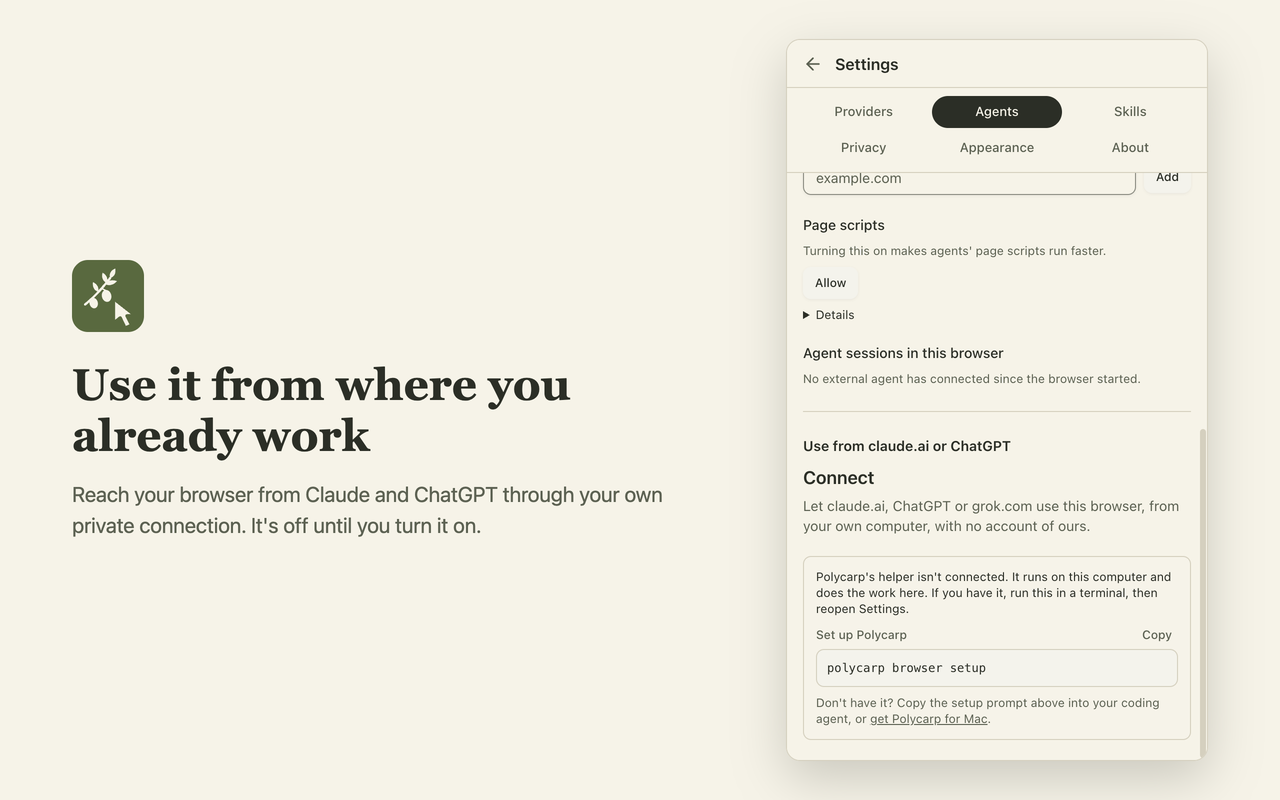
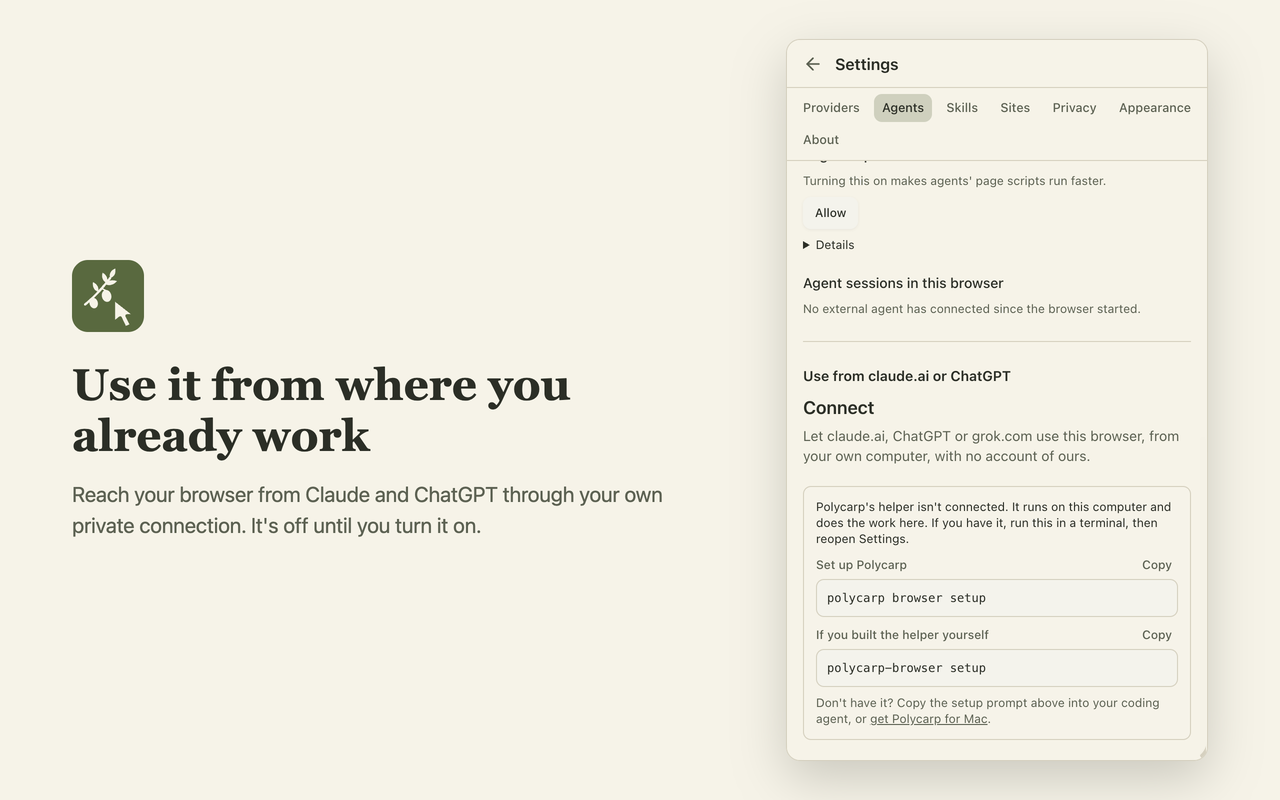
Helper: source installs are polycarp-browser; store shots redrawn (tychicus#87)
* Helper: source installs are polycarp-browser, and the panel never shows the old name

* wait no longer starves background tabs of rendering; let go of a crashed page's debugger session

* wait backs off so background tabs on Linux run IntersectionObserver; exports use the Polycarp name

infinite-scroll gates CI again.

* Bench: state what was measured about infinite-scroll on Linux

* Store: redraw the Connect, Privacy and Agents shots from the current panel

* Helper: report the name it is linked under; prompts handle older tags and helpers

* Test: isolate PATH in the linked-name check

---------

Changed region(s): [[0.625, 0.4375, 0.9688, 0.9375], [0.625, 0.0938, 0.9375, 0.4062], [0.875, 0.1875, 0.9062, 0.2188]]

diff --git a/browser/src/agent-setup-prompt.ts b/browser/src/agent-setup-prompt.ts
@@ -1,12 +1,12 @@
-/** The two names a person types for this program: the one the app's helper answers to, and the one an npm link or checkout has. */
-const COMMANDS = ["polycarp browser", "tabkyra"];
+/** The names a person types for this program: the one the app's helper answers to, the one an npm link or checkout has, and the older one a helper installed earlier may still answer to. */
+const COMMANDS = ["polycarp browser", "polycarp-browser", "tabkyra"];
 
 /**
  * A prompt the user pastes into their own agent (Claude Code, Codex, pi, OMP, OpenCode,
  * Cursor, ...). The agent installs the CLI, connects the MCP server and installs the skills.
  * Plain steps only: no piped installers, and nothing that asks for a key or password.
  */
-export function agentSetupPrompt(version: string, command = "tabkyra"): string {
+export function agentSetupPrompt(version: string, command = "polycarp-browser"): string {
 	if (!COMMANDS.includes(command)) throw new Error(`Unknown command name "${command}".`);
 	// Without the version the clone can't be pinned, so refuse rather than copy a broken prompt.
 	if (!/^\d+\.\d+\.\d+/.test(version)) throw new Error(`No extension version to pin the CLI to (got "${version}").`);
@@ -20,16 +20,16 @@ export function agentSetupPrompt(version: string, command = "tabkyra"): string {
    - If it doesn't exist: mkdir -p ~/polycarp-src && cd ~/polycarp-src && git clone --depth 1 --branch browser-v${version} https://github.com/baney75/polycarp && cd polycarp
      If that tag doesn't exist, run the same clone without --branch browser-v${version} and tell me you used the newest code.
    - Then: (cd browser/cli && npm ci && npm run build && npm link)
-   The npm link gives the command the name tabkyra.${command === "tabkyra" ? "" : ` Once it succeeds, run "tabkyra" in place of "${command}" in every command below, whichever name this prompt started with.`} If npm link fails with a permissions error, run "node ~/polycarp-src/polycarp/browser/cli/dist/index.js" in place of "${command}" in every command below.
+   The npm link gives the command the name polycarp-browser, or tabkyra if the tag above is an older one: run command -v polycarp-browser, and use tabkyra if only that exists. Use the name that exists in place of "${command}" in every command below, whichever name this prompt started with. If npm link fails with a permissions error, run "node ~/polycarp-src/polycarp/browser/cli/dist/index.js" in place of "${command}" in every command below.
 3. Run: ${command} setup --yes
    It registers the browser connection and adds the MCP server to Claude Code and Codex.
 4. Connect this harness, even if Polycarp already works in another one:
-   - Any MCP client: a stdio server named "polycarp" that runs ~/.config/tabkyra/tabkyra with the argument "mcp". JSON configs need the full path, not ~.
+   - Any MCP client: a stdio server named "polycarp" that runs ~/.config/polycarp/browser/polycarp with the argument "mcp". JSON configs need the full path, not ~.
    - pi has no MCP client: run ${command} pi-extension instead.
 5. Install the skills: ${command} skill install
    If this harness reads AGENTS.md instead of skill folders: cd back to the directory step 1 printed (my project, not the Polycarp clone); if you aren't sure it's my project's root, ask me. If its AGENTS.md already has a "## Browser: Polycarp" or "## Browser: Tabkyra" section (the same section under its earlier name), leave it as it is. Otherwise run ${command} skill print >> AGENTS.md
 6. Run ${command} doctor and fix anything it reports with the command it prints.
-7. Restart or reload MCP servers if this harness needs it, then call the status tool of the MCP server named tabkyra. Tell me whether it says connected.
+7. Restart or reload MCP servers if this harness needs it, then call the status tool of the MCP server named polycarp. Tell me whether it says connected.
 
 Don't ask me for API keys or passwords. Polycarp doesn't need them for this.`;
 }
@@ -42,7 +42,7 @@ const CLOSING = "Don't ask me for API keys or passwords. Polycarp doesn't need t
  * --no-passcode, so no long-lived passcode is made or printed into the agent's output, and the
  * prompt pipes nothing into a shell.
  */
-export function remoteSetupPrompt(version: string, command = "tabkyra"): string {
+export function remoteSetupPrompt(version: string, command = "polycarp-browser"): string {
 	if (!COMMANDS.includes(command)) throw new Error(`Unknown command name "${command}".`);
 	if (!/^\d+\.\d+\.\d+/.test(version)) throw new Error(`No extension version to pin the CLI to (got "${version}").`);
 	return `Set up Polycarp (https://github.com/baney75/polycarp) so claude.ai, ChatGPT or grok.com can use my browser through my own computer. The Polycarp extension ${version} is already loaded in my browser. Run each step yourself and show me any output you can't fix. Nothing here costs money or goes through anyone else's server.
@@ -68,7 +68,7 @@ export const CONNECT_CODE = /^TK-[0-9A-HJKMNP-TV-Z]{4}-[0-9A-HJKMNP-TV-Z]{4}$/;
 
 /**
  * A prompt for an agent on another device: link it to this hub with a one-time connect code. That device may have
- * `polycarp browser` (the app) or only `tabkyra` (an npm link or checkout), so the prompt does not carry this
+ * `polycarp browser` (the app) or only `polycarp-browser` (an npm link or checkout), so the prompt does not carry this
  * helper's name: the agent finds out which one runs there and uses it for every later step.
  */
 export function deviceSetupPrompt(version: string, hubUrl: string, code: string): string {
@@ -78,8 +78,9 @@ export function deviceSetupPrompt(version: string, hubUrl: string, code: string)
 	return `Connect this computer's browser to my Polycarp hub at ${hubUrl}, so claude.ai, ChatGPT or grok.com can use it through my one connector. The Polycarp extension ${version} should already be loaded in my browser on this computer. Run each step yourself and show me any output you can't fix.
 
 1. Find the command that runs Polycarp's helper on this computer. Run: polycarp browser doctor
-   If that says the command isn't found, run: tabkyra doctor
-   Use whichever of the two runs, and write it as HELPER in every step below: HELPER is "polycarp browser" or "tabkyra", never both. If neither runs, stop and tell me to copy the setup prompt from Polycarp's Settings > Agents tab and run that first.
+   If that says the command isn't found, run: polycarp-browser doctor
+   If that isn't found either, an older install may answer to: tabkyra doctor
+   Use the first one that runs, and write it as HELPER in every step below: HELPER is exactly one of "polycarp browser", "polycarp-browser" or "tabkyra". If neither runs, stop and tell me to copy the setup prompt from Polycarp's Settings > Agents tab and run that first.
 2. Run: HELPER link ${hubUrl} --code ${code}
    The code works once and expires 10 minutes after I copied this prompt. If the hub refuses it, tell me to get a new one in Settings > Connect > Add a device.
 3. Run: HELPER link status

diff --git a/browser/cli/src/commands.ts b/browser/cli/src/commands.ts
@@ -285,7 +285,7 @@ export const COMMANDS: CommandSpec[] = [
 	{ name: "install", what: "Re-register the native host with every browser, or with --browser <name> only that one", group: "Troubleshoot", flags: ["--force", "--browser"] },
 	{ name: "reload", what: "Reload the extension after rebuilding dist-chrome", group: "Troubleshoot" },
 	{ name: "debug", what: "Bridge state, request timings and a benchmark (JSON)", group: "Troubleshoot" },
-	{ name: "completion", positional: 1, args: "zsh|bash|fish", what: 'Completions for the tabkyra command name: eval "$(tabkyra completion zsh)"', group: "Troubleshoot", values: ["zsh", "bash", "fish"] }, // product-name allowlist: completions are for the tabkyra command name
+	{ name: "completion", positional: 1, args: "zsh|bash|fish", what: `Completions for ${COMMAND_NAME}: eval "$(${COMMAND_NAME} completion zsh)"`, group: "Troubleshoot", values: ["zsh", "bash", "fish"] }, // product-name allowlist: the alias is still completed
 	{ name: "version", what: "This CLI's version (also --version)", group: "Troubleshoot", flags: ["--json"] },
 	{ name: "help", selfParsed: true, what: "This help (also --help)", group: "Troubleshoot", hidden: true },
 	{ name: "host", selfParsed: true, what: "The native host the browser starts", group: "Troubleshoot", hidden: true },
@@ -371,8 +371,8 @@ export function completionScript(shell: string): string | undefined {
 	const pathFlags = [...PATH_VALUES].map(sh).join(" ");
 	if (shell === "zsh") {
 		const lines = [
-			"#compdef tabkyra",
-			'# completion for the tabkyra command name (zsh). Load it with: eval "$(tabkyra completion zsh)"', // product-name allowlist: completions are for the tabkyra command name
+			"#compdef polycarp-browser tabkyra",
+			`# completion for ${COMMAND_NAME} and the tabkyra alias (zsh). Load it with: eval "$(${COMMAND_NAME} completion zsh)"`, // product-name allowlist: the alias is still completed
 			"_tabkyra() {",
 			"  local -a commands subs flags",
 			"  local paths=0",
@@ -416,11 +416,11 @@ export function completionScript(shell: string): string | undefined {
 			"# compdef exists once compinit has run. If the zshrc runs it later (oh-my-zsh, zinit,",
 			"# prezto), register at the first prompt instead of running compinit a second time.",
 			"if (( $+functions[compdef] )); then",
-			"  compdef _tabkyra tabkyra",
+			"  compdef _tabkyra polycarp-browser tabkyra",
 			"else",
 			"  autoload -Uz add-zsh-hook",
 			"  _tabkyra_register() {",
-			"    (( $+functions[compdef] )) && compdef _tabkyra tabkyra",
+			"    (( $+functions[compdef] )) && compdef _tabkyra polycarp-browser tabkyra",
 			"    add-zsh-hook -d precmd _tabkyra_register",
 			"  }",
 			"  add-zsh-hook precmd _tabkyra_register",
@@ -438,7 +438,7 @@ export function completionScript(shell: string): string | undefined {
 				return `    ${sh(f)}) ${values ? `COMPREPLY=( $(compgen -W "${values}" -- "$cur") ); ` : ""}compopt +o default 2>/dev/null; return ;;`;
 			});
 		const lines = [
-			'# completion for the tabkyra command name (bash). Load it with: eval "$(tabkyra completion bash)"', // product-name allowlist: completions are for the tabkyra command name
+			`# completion for ${COMMAND_NAME} and the tabkyra alias (bash). Load it with: eval "$(${COMMAND_NAME} completion bash)"`, // product-name allowlist: the alias is still completed
 			"_tabkyra() {",
 			'  local cur="${COMP_WORDS[COMP_CWORD]}" prev="${COMP_WORDS[COMP_CWORD-1]}" paths=0',
 			"  COMPREPLY=()",
@@ -478,13 +478,13 @@ export function completionScript(shell: string): string | undefined {
 			"  # File names only where the command takes a path (compopt needs bash 4; older bash keeps them).",
 			'  [ "$paths" = 1 ] || compopt +o default 2>/dev/null',
 			"}",
-			"complete -o bashdefault -o default -F _tabkyra tabkyra",
+			"complete -o bashdefault -o default -F _tabkyra polycarp-browser tabkyra",
 			"",
 		);
 		return lines.join("\n");
 	}
 	if (shell === "fish") {
-		const lines = ["# completion for the tabkyra command name (fish). Load it with: tabkyra completion fish | source"]; // product-name allowlist: completions are for the tabkyra command name
+		const lines = [`# completion for ${COMMAND_NAME} and the tabkyra alias (fish). Load it with: ${COMMAND_NAME} completion fish | source`]; // product-name allowlist: the alias is still completed
 		for (const c of cmds) lines.push(`complete -c tabkyra -n __fish_use_subcommand -f -a ${sh(c.name)} -d '${desc(c.summary ?? c.what)}'`);
 		for (const c of cmds) {
 			const subs = c.subcommands ?? [];
@@ -504,6 +504,8 @@ export function completionScript(shell: string): string | undefined {
 			for (const f of c.flags ?? [])
 				lines.push(`complete -c tabkyra -n '__fish_seen_subcommand_from ${sh(c.name)}' -l ${sh(f.replace(/^--/, ""))}${VALUE_FLAGS.has(f) ? " -r" : ""}`);
 		}
+		// The same rules for the name a person types now; the alias above stays completed.
+		lines.push(...lines.slice(1).map((l) => l.replace("complete -c tabkyra ", "complete -c polycarp-browser ")));
 		lines.push("");
 		return lines.join("\n");
 	}

diff --git a/browser/src/bridge/host-command.ts b/browser/src/bridge/host-command.ts
@@ -1,8 +1,8 @@
 import { UPDATE_STATUS_KEY } from "./protocol.js";
 
 /**
- * What a person types to run the helper: "polycarp browser" when the helper is the one inside the Polycarp app, "tabkyra" for an
- * npm link or a checkout. The helper says which in its update status; until it has, the product's own name. Someone who just
+ * What a person types to run the helper: "polycarp browser" when the helper is the one inside the Polycarp app, "polycarp-browser" for
+ * an npm link or a checkout (an older helper reports "tabkyra", and that is shown as it reports it). The helper says which in its update status; until it has, the product's own name. Someone who just
  * installed from the store has neither, so the screens that show this also say how to get the helper.
  */
 let command = "polycarp browser";
@@ -10,7 +10,7 @@ let known = false;
 
 function take(status: unknown): void {
 	const named = (status as { command?: unknown } | undefined)?.command;
-	if (named === "polycarp browser" || named === "tabkyra") {
+	if (named === "polycarp browser" || named === "polycarp-browser" || named === "tabkyra") {
 		command = named;
 		known = true;
 	}
@@ -29,9 +29,9 @@ export function hostCommand(): string {
 	return command;
 }
 
-/** A helper built from the setup prompt answers to `tabkyra`, and one that hasn't reported yet could be either. */
+/** A helper built from the setup prompt answers to `polycarp-browser`, and one that hasn't reported yet could be either. */
 export function builtHelperCommand(subcommand: string): string | undefined {
-	return known ? undefined : `tabkyra ${subcommand}`;
+	return known ? undefined : `polycarp-browser ${subcommand}`;
 }
 
 /** The command for a sentence: the one name once the helper has said which, and both until then. */

diff --git a/browser/cli/src/self.ts b/browser/cli/src/self.ts
@@ -1,3 +1,4 @@
+import { realpathSync } from "node:fs";
 /**
  * How this program starts a copy of itself. From source or the npm bundle that is
  * `node <script> <args>`; inside Polycarp the helper is one compiled executable (`polycarp-browser`,
@@ -5,7 +6,7 @@
  * and there is no Node and no script path to point at.
  */
 
-import { dirname, join } from "node:path";
+import { delimiter, dirname, join } from "node:path";
 
 declare const __POLYCARP_COMPILED__: boolean | undefined;
 
@@ -27,5 +28,19 @@ export function bundledExtensionDir(): string | undefined {
 	return COMPILED ? join(dirname(process.execPath), "extension") : undefined;
 }
 
-/** The command a person types for this program: `polycarp browser` inside the app, `tabkyra` for an npm link or a checkout. */
-export const COMMAND_NAME: string = COMPILED ? "polycarp browser" : "tabkyra";
+/** The command a person types for this program: `polycarp browser` inside the app, `polycarp-browser` for an npm link or a checkout. */
+export const COMMAND_NAME: string = COMPILED ? "polycarp browser" : !linkedAs("polycarp-browser") && linkedAs("tabkyra") ? "tabkyra" : "polycarp-browser";
+
+/** Whether `name` on PATH is this program. An npm link made before the rename answers only to `tabkyra`. */
+function linkedAs(name: string): boolean {
+	const script = process.argv[1];
+	if (!script) return false;
+	for (const dir of (process.env.PATH ?? "").split(delimiter)) {
+		try {
+			if (realpathSync(join(dir, name)) === realpathSync(script)) return true;
+		} catch {
+			/* not in this folder */
+		}
+	}
+	return false;
+}

diff --git a/browser/cli/src/oauth.ts b/browser/cli/src/oauth.ts
@@ -81,7 +81,7 @@ interface State {
 }
 
 export interface OAuthConfig {
-	/** The public origin clients reach, such as https://tabkyra.example.com. The MCP endpoint is <publicUrl>/mcp. */
+	/** The public origin clients reach, such as https://polycarp.example.com. The MCP endpoint is <publicUrl>/mcp. */
 	publicUrl: string;
 	/** Extra https hosts a client may register a redirect URI on. */
 	redirectHosts: string[];
@@ -113,7 +113,7 @@ export function normalizePublicUrl(raw: string): string {
 	try {
 		url = new URL(raw);
 	} catch {
-		throw new Error(`--public-url must be a URL like https://tabkyra.example.com (got ${raw}).`);
+		throw new Error(`--public-url must be a URL like https://polycarp.example.com (got ${raw}).`);
 	}
 	const loopback = ["localhost", "127.0.0.1", "[::1]"].includes(url.hostname);
 	if (url.protocol !== "https:" && !(url.protocol === "http:" && loopback)) throw new Error("--public-url must use https.");

diff --git a/browser/src/dialogs/PrivacyTab.ts b/browser/src/dialogs/PrivacyTab.ts
@@ -181,7 +181,7 @@ export class PrivacyTab extends SettingsTab {
 					${explained(
 						"Keeps a copy of your chats on this computer so your coding agents can look up what you asked Polycarp.",
 						"What is copied, and where",
-						`Keeps a copy of your side panel chats in ~/.local/share/tabkyra/threads (readable only by your user), so
+						`Keeps a copy of your side panel chats in ~/.local/share/polycarp/browser/threads (readable only by your user), so
 						agents like Claude Code and Codex can look up what you asked Polycarp, through Polycarp's MCP server or as files.
 						Keys pasted into a chat are removed from the copy, and chats from private mode are never copied. Turning
 						this off deletes the copy and stops agents reading past chats. Agents connected through ${hostCommand()} serve need a token with the threads.read scope.`,

diff --git a/browser/src/subscriptions/SubscriptionsSection.ts b/browser/src/subscriptions/SubscriptionsSection.ts
@@ -294,7 +294,7 @@ export class SubscriptionsSection extends LitElement {
 					</p>
 					${this.command("Claude Code", cliMcpSetup("claude", hostCommand()))}
 					${this.command("Gemini CLI", cliMcpSetup("gemini", hostCommand()))}
-					${builtHelperCommand("mcp") ? html`<p class="text-xs text-muted-foreground">Built the helper yourself? Use <code class="font-mono">tabkyra</code> in place of <code class="font-mono">${hostCommand()}</code>.</p>` : nothing}
+					${builtHelperCommand("mcp") ? html`<p class="text-xs text-muted-foreground">Built the helper yourself? Use <code class="font-mono">polycarp-browser</code> in place of <code class="font-mono">${hostCommand()}</code>.</p>` : nothing}
 				</div>
 				${this.notice ? html`<p class="text-xs text-muted-foreground" role="status">${this.notice}</p>` : nothing}
 			</div>

diff --git a/browser/src/dialogs/SessionListDialog.ts b/browser/src/dialogs/SessionListDialog.ts
@@ -190,8 +190,8 @@ export class TabkyraSessionListDialog extends DialogBase {
 			const a = document.createElement("a");
 			a.href = url;
 			const filename = sessionId
-				? `tabkyra-session-${exported[0]?.metadata.title?.replace(/[^a-z0-9]/gi, "-").toLowerCase() || "export"}.json`
-				: `tabkyra-sessions-${new Date().toISOString().split("T")[0]}.json`;
+				? `polycarp-session-${exported[0]?.metadata.title?.replace(/[^a-z0-9]/gi, "-").toLowerCase() || "export"}.json`
+				: `polycarp-sessions-${new Date().toISOString().split("T")[0]}.json`;
 			a.download = filename;
 			a.click();
 			URL.revokeObjectURL(url);

diff --git a/browser/src/dialogs/UpdatesTab.ts b/browser/src/dialogs/UpdatesTab.ts
@@ -15,7 +15,7 @@ import { POLICY_LABELS, type UpdatePolicy } from "../update/logic.js";
 import { runningFromStore } from "../update/store-install.js";
 
 const MODE_LABELS: Record<string, string> = {
-	release: "Signed release (~/.local/share/tabkyra/app)",
+	release: "Signed release (~/.local/share/polycarp/browser/app)",
 	checkout: "Git checkout (pull, build, reload)",
 	unmanaged: "Neither (update in a terminal)",
 };

diff --git a/browser/src/dialogs/SkillsTab.ts b/browser/src/dialogs/SkillsTab.ts
@@ -201,7 +201,7 @@ export class SkillsTab extends SettingsTab {
 		const url = URL.createObjectURL(blob);
 		const a = document.createElement("a");
 		a.href = url;
-		a.download = `tabkyra-skills-${new Date().toISOString().split("T")[0]}.json`;
+		a.download = `polycarp-skills-${new Date().toISOString().split("T")[0]}.json`;
 		a.click();
 		URL.revokeObjectURL(url);
 	}

diff --git a/browser/AGENTS.md b/browser/AGENTS.md
@@ -61,7 +61,7 @@ machines call them, and no person reads them:
 - the extension's stored data: storage keys, database names and the `TabkyraAppStorage` class
 - the name providers list: OpenAI and GitHub show the sign-in grant as "Tabkyra", so the sign-out text says "Tabkyra (Polycarp's earlier name)" (`agentName` and the OAuth app stay registered as they are)
 - the tab group title "Tabkyra · ..." that earlier versions made, which is still recognized and tidied
-Every command the CLI prints (`doctor`, `status`, errors, usage, services, the setup prompts) is built from `COMMAND_NAME` in `cli/src/self.ts`: `polycarp browser` inside the app, `tabkyra` for an npm link or checkout. The extension's commands for this computer come from `hostCommand()` (`src/bridge/host-command.ts`), which reads the name from the helper's update status; build them when shown, never in a module-level constant. A prompt for another device (`deviceSetupPrompt`) carries no name: the agent there finds which of the two runs. Write these strings as template literals; `cli/test/rendered-names.test.mjs` fails on a quoted string that holds `${COMMAND_NAME}`.
+Every command the CLI prints (`doctor`, `status`, errors, usage, services, the setup prompts) is built from `COMMAND_NAME` in `cli/src/self.ts`: `polycarp browser` inside the app, `polycarp-browser` for an npm link or checkout (`tabkyra` stays as a bin alias). The extension's commands for this computer come from `hostCommand()` (`src/bridge/host-command.ts`), which reads the name from the helper's update status; build them when shown, never in a module-level constant. A prompt for another device (`deviceSetupPrompt`) carries no name: the agent there finds which of the two runs. Write these strings as template literals; `cli/test/rendered-names.test.mjs` fails on a quoted string that holds `${COMMAND_NAME}`.
 Skills under `skills/` and the docs and README still say Tabkyra; they are not rewritten yet.
 
 ## Inside Polycarp (single executable)
